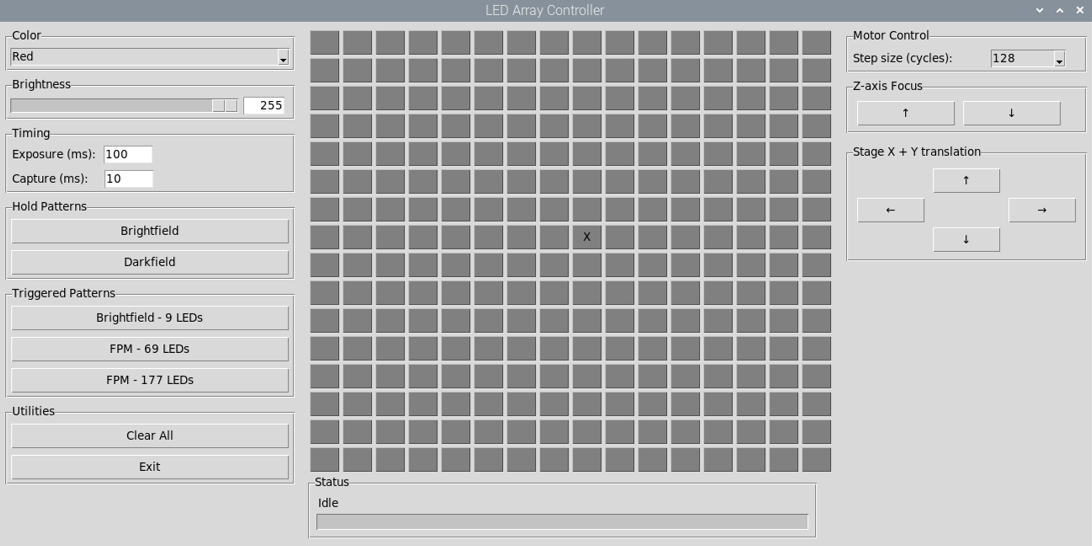
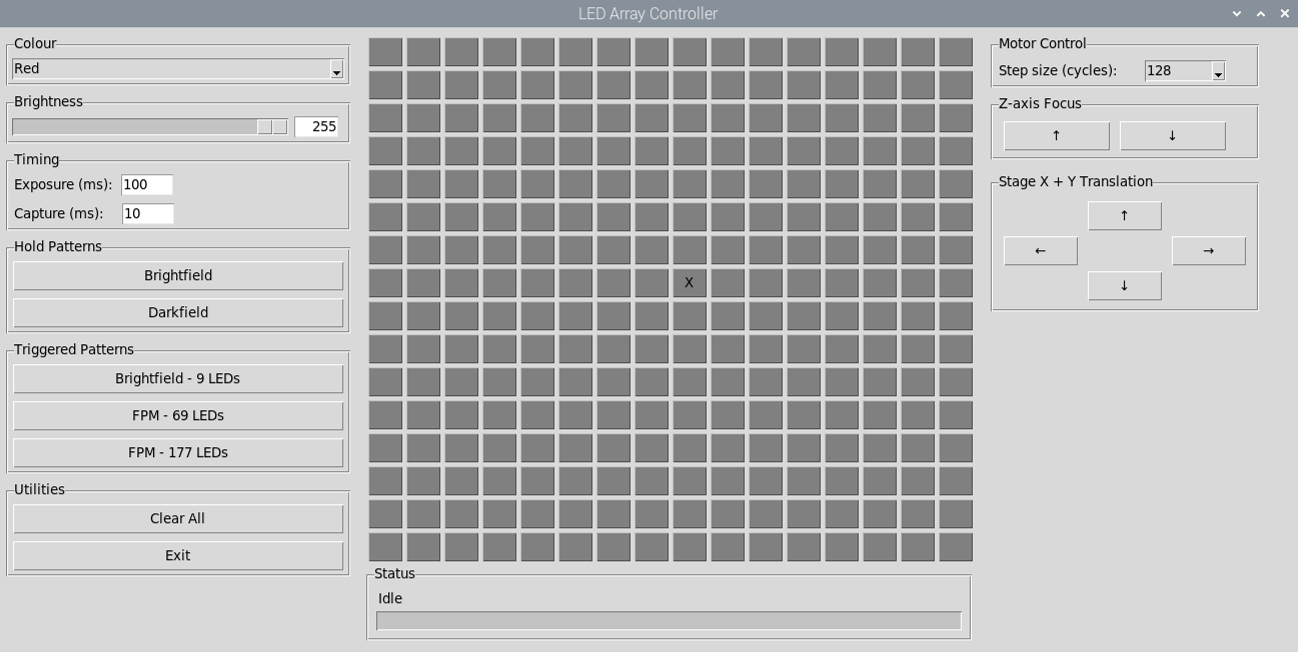
Edits

diff --git a/Software/Microscope Control Software_v1.py b/Software/Microscope Control Software_v1.py
@@ -399,7 +399,7 @@ right_motors.grid(row=0, column=2, sticky='nw')
 
 # ========= LEFT CONTROLS (pack inside left_controls) =========
 # Color
-color_group = ttk.LabelFrame(left_controls, text='Color')
+color_group = ttk.LabelFrame(left_controls, text='Colour')
 color_group.pack(fill='x', pady=(0,8))
 color_var = tk.StringVar(value='Red')
 color_dropdown = ttk.Combobox(color_group, textvariable=color_var, state='readonly', width=12)
@@ -506,7 +506,7 @@ tk.Button(zr, text='↑', width=10, command=_z_up).pack(side='left', padx=4)
 tk.Button(zr, text='↓', width=10, command=_z_down).pack(side='left', padx=4)
 
 # ----- Stage X+Y Translation -----
-compass_group = ttk.LabelFrame(right_motors, text='Stage X + Y translation')
+compass_group = ttk.LabelFrame(right_motors, text='Stage X + Y Translation')
 compass_group.pack(fill='x', pady=(6,8))
 
 cg = tk.Frame(compass_group)

diff --git a/Software/README.md b/Software/README.md
@@ -19,9 +19,11 @@
   <img width='800' src='../Images/GUI.png'>
 </p>
 
-### Acquiring a live FFT from a screen region.
-OpenFPM is designed with a translation LED array to allow the user to manually align the LED array into the optical axis for better reconstruction outputs. Alignment of the LED array is carried out by using a high contrast sample, and live observation of the brightfield coherent passbands in Fourier Space. This is supported using live on-screen FFT imaging of the sample using the FIJI macro linked below, with credit to the author, Nicolás De Francesco, user: @NicoDF.
+### Acquiring live FFT imaging from on screen display.
+OpenFPM is designed with illuminator translation, allowing the user to manually align the LED array into the optical axis for better reconstruction outputs. Alignment of the LED array is supported using a high contrast sample, and live observation of the brightfield coherent passbands in Fourier Space. This is supported using live on-screen FFT imaging of the sample using the FIJI macro linked below, with credit to the author, Nicolás De Francesco. Below we demonstrate an example of the central LED offset from the and
 
-Example images in image and Fourier space.
+<p align='center'>
+  <img width='800' src='../Images/Uncorrected and Corrected Fourier Space.png'>
+</p>
 
 https://forum.image.sc/t/is-live-fft-of-an-roi-on-screen-possible/31026/4 (November 2019) [Accessed: March 2026]
